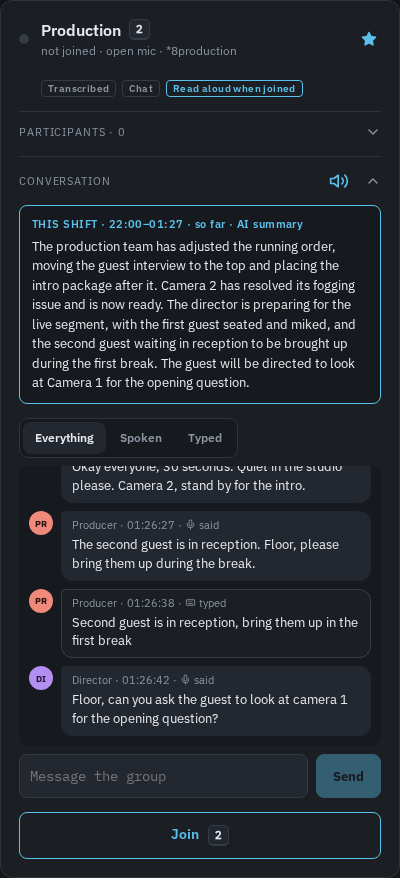
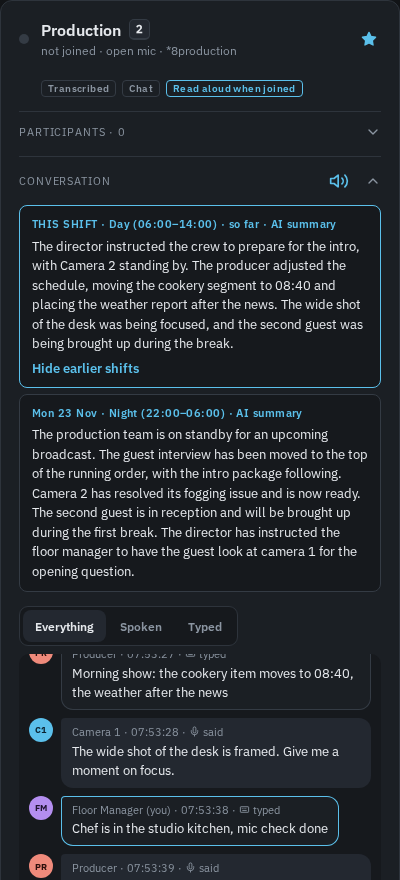
Parley: v0.4.1, named shift summaries

diff --git a/parley/README.md b/parley/README.md
@@ -4,7 +4,7 @@
 
 Live productions, events and operations rooms run on talkback. The director talks to the cameras, the floor manager to the producer, everyone to everyone when it matters. Dedicated intercom hardware does this well and costs accordingly; a conference bridge is cheap but has no idea who should hear whom. Parley sits between the two. Each person logs in from any browser (a desk PC, a laptop, an iPad), sees the groups they belong to and the people they can call, and joins as many groups at once as their job needs. What was said in a group is written down as it's said, typed messages sit beside it, and calls can be recorded to a compliance recorder.
 
-Source code: [github.com/chrisnock-personal/parley](https://github.com/chrisnock-personal/parley) · latest release: [v0.4.0](https://github.com/chrisnock-personal/parley/releases/tag/v0.4.0)
+Source code: [github.com/chrisnock-personal/parley](https://github.com/chrisnock-personal/parley) · latest release: [v0.4.1](https://github.com/chrisnock-personal/parley/releases/tag/v0.4.1)
 
 ![Parley in use: the Floor Manager is in the Production group while the Director talks. Its conversation mixes what was said with what was typed, and the Studio Floor transcript can be read without joining](images/01-hero.png)
 
@@ -68,11 +68,11 @@ Transcription runs on your own server with whisper.cpp, sharing one GPU (or CPU)
 
 Transcripts and chat are a working aid for catching up, not the official record (that's what recording is for), so they don't pile up forever. Each group keeps them for the number of days set in the console, for its own number of days, or not at all: lines from a group set to *don't keep* still show live, then go after 15 minutes. Before anything is deleted it can be archived, one dated file per group per day, kept on the server or copied to another one, and nothing is deleted until the archive has been written.
 
-At the end of each shift (the start times are set in the console), every group that had anything said or typed gets a short summary, written by a language model running on the same server, so nothing leaves it. The newest summary sits at the top of the group's conversation, so someone coming on shift can read what happened before scrolling back through it; earlier shifts are a click away, and summaries are kept for a year, long after the lines themselves.
+At the end of each shift (the start times, and names such as Day and Night, are set in the console), every group that had anything said or typed gets a short summary, written by a language model running on the same server, so nothing leaves it. The newest summary sits at the top of the group's conversation, so someone coming on shift can read what happened before scrolling back through it; earlier shifts are a click away, and summaries are kept for a year, long after the lines themselves.
 
-![The Production card with the conversation open: an AI summary of the shift so far above the spoken and typed lines](images/04c-shift-summary.png)
+![The Production card with the conversation open: the Day shift's summary so far, and the earlier Night shift's summary, above the spoken and typed lines](images/04c-shift-summary.png)
 
-*A summary of Production's shift so far, made from the ten lines of a run with the demo crew (seven spoken, three typed) by qwen2.5:7b on the same PC. It got the facts right but blurred two of them: "the package" that moved after the interview became "the intro package". It's an aid for catching up, so the lines stay beneath it.*
+*Production after two runs with the demo crew, summarised by qwen2.5:7b on the same PC. The Night summary was made by itself when that shift ended, from ten lines (seven spoken, three typed); the Day one is the shift so far, from seven. They get the facts right but not every detail: Night turned "the package" that moved after the interview into "the intro package", and Day left out the typed note that the chef was in the studio. It's an aid for catching up, so the lines stay beneath it.*
 ---
 
 ## Recording
@@ -119,7 +119,7 @@ From Live, an editor or admin can open a group's people and **mute** anyone in i
 
 **Conversations** searches everything still kept, across all groups, by group, person, time and words, with the matches highlighted. The results export as text or CSV (each export is in the audit log), and the shift summaries for the same dates sit beside them, with a button to summarise the current shift so far.
 
-![The Conversations page: Production's lines containing "guest" since midnight, said and typed, with the shift summary beside them](images/09c-console-conversations.png)
+![The Conversations page: Production's lines containing "guest" since 22:00, said and typed, with the Day and Night shift summaries beside them](images/09c-console-conversations.png)
 
 **Settings** holds the recording server, how long transcripts and chat are kept, where they're archived, and the shift times for summaries. **Audit** is a searchable, plain-language history ("Floor Manager: record calls turned on", "Joined Production") filtered by time, person, kind of event and subject, and exportable as CSV. **Health** shows the server's load, the database, whether the SIP core is up, and each container's logs. **Backups** downloads and restores database backups, runs maintenance, and purges or archives old rows. Console users are viewers, editors or admins, and actions they can't take are greyed out with the reason.
 
